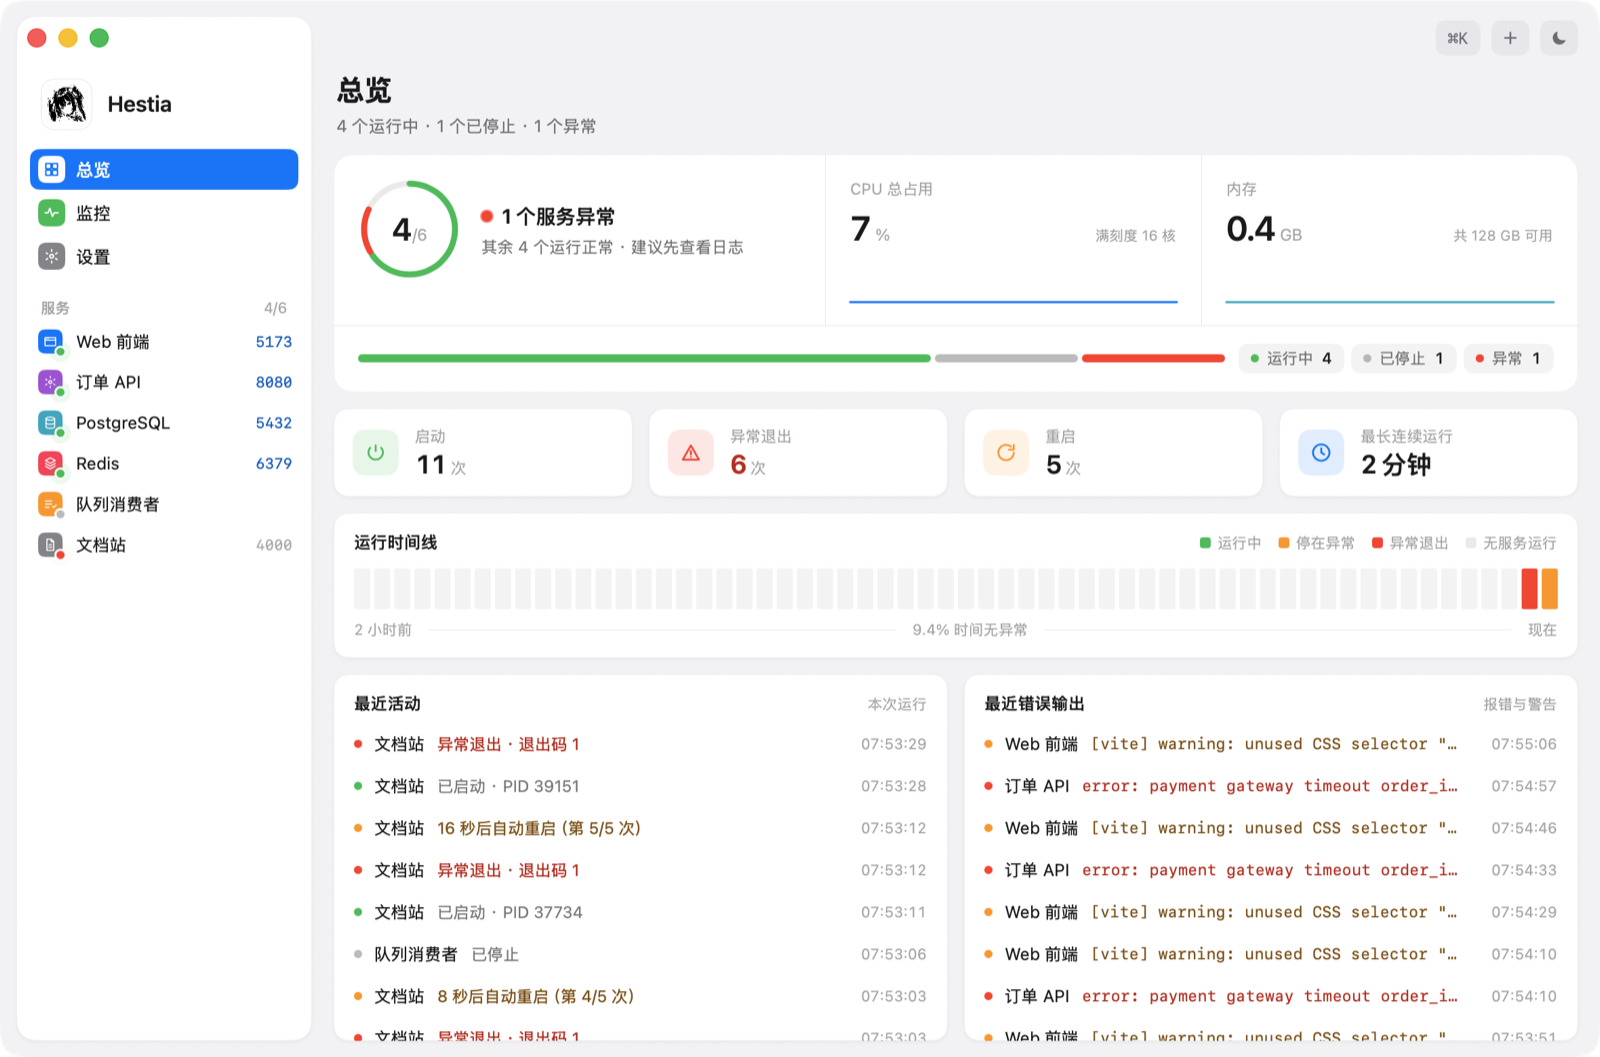
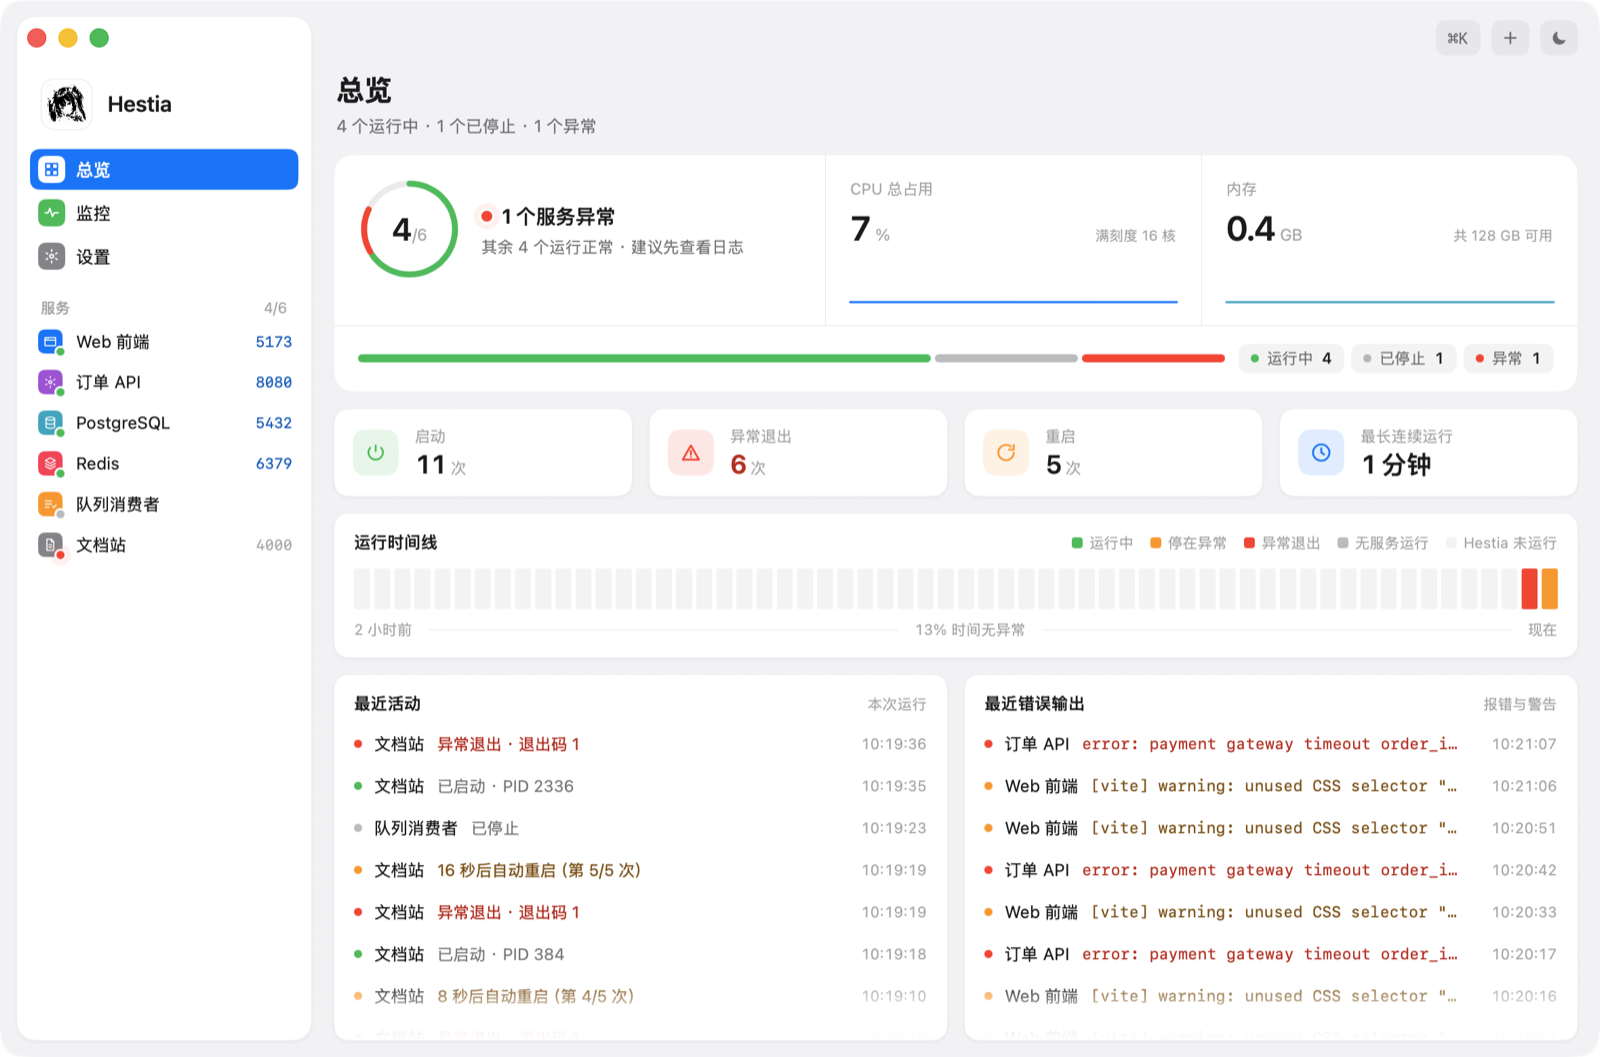
feat: 隐藏滚动条并加边缘渐隐，统一悬停手势，版本号升至 0.2.3
- 菜单栏面板、侧边栏、总览列表卡片，以及设置、监控、详情页的整页滚动不再显示滚动条，
  还有未显示内容的一侧边缘渐隐
- 按钮、开关、按钮组悬停时显示手形，禁用时保持箭头；嵌套区域离开内层后回到外层的形态；
  侧边栏拖拽时显示抓握手势
- 侧边栏拖到第一行之前时显示插入线
- 运行时间线的「无服务运行」改为灰色，图例补充「Hestia 未运行」
- 设置页各卡片改为单列排列
- README 截图同步更新

diff --git a/mac/Sources/Design/Components.swift b/mac/Sources/Design/Components.swift
@@ -242,6 +242,64 @@ struct Card<Content: View>: View {
     }
 }
 
+// MARK: 滚动边缘
+
+extension View {
+    /// 加在不显示滚动条的 ScrollView 上：哪一侧还有没露出来的内容，哪一侧的边缘就渐隐
+    func edgeFade(_ length: CGFloat = 44) -> some View {
+        modifier(EdgeFade(length: length))
+    }
+}
+
+/// 依赖 macOS 15 的滚动几何回调，macOS 14 上不渐隐
+private struct EdgeFade: ViewModifier {
+    let length: CGFloat
+    @State private var hidden = Hidden()
+
+    struct Hidden: Equatable {
+        var above = false
+        var below = false
+    }
+
+    func body(content: Content) -> some View {
+        if #available(macOS 15, *) {
+            content
+                .onScrollGeometryChange(for: Hidden.self) { g in
+                    Hidden(
+                        above: g.visibleRect.minY > 0.5,
+                        below: g.visibleRect.maxY < g.contentSize.height - 0.5)
+                } action: { _, now in
+                    withAnimation(.easeOut(duration: 0.15)) { hidden = now }
+                }
+                .mask {
+                    VStack(spacing: 0) {
+                        edge(.top, faded: hidden.above)
+                        Color.black
+                        edge(.bottom, faded: hidden.below)
+                    }
+                }
+        } else {
+            content
+        }
+    }
+
+    /// 靠边的一半压到很淡，贴边那一行基本看不见，才看得出还有内容。不渐隐时这一段完全不透明
+    private func edge(_ side: VerticalEdge, faded: Bool) -> some View {
+        ZStack {
+            Color.black.opacity(faded ? 0 : 1)
+            LinearGradient(
+                stops: [
+                    .init(color: .clear, location: 0),
+                    .init(color: .black.opacity(0.2), location: 0.45),
+                    .init(color: .black, location: 1),
+                ],
+                startPoint: side == .top ? .top : .bottom,
+                endPoint: side == .top ? .bottom : .top)
+        }
+        .frame(height: length)
+    }
+}
+
 // MARK: 分段控件
 
 struct Segmented<Value: Hashable>: View {
@@ -276,6 +334,7 @@ struct Segmented<Value: Hashable>: View {
                                     .matchedGeometryEffect(id: "thumb", in: thumb)
                             }
                         }
+                        .pointerCursor(on ? nil : .pointingHand)
                 }
                 .buttonStyle(.plain)
             }
@@ -422,15 +481,17 @@ extension AnyTransition {
 
 // MARK: 按钮
 
-/// 按下时缩一下。`.plain` 样式本身不给任何提示；缩放比例与曲线取自设计稿
+/// 按下时缩一下，悬停时指针变手形。`.plain` 样式本身不给任何提示；缩放比例与曲线取自设计稿
 struct Press: ButtonStyle {
     var scale: CGFloat = 0.94
+    @Environment(\.isEnabled) private var enabled
 
     func makeBody(configuration: Configuration) -> some View {
         configuration.label
             .scaleEffect(configuration.isPressed ? scale : 1)
             .animation(
                 .timingCurve(0.32, 0.72, 0, 1, duration: 0.14), value: configuration.isPressed)
+            .pointerCursor(enabled ? .pointingHand : nil)
     }
 }
 
@@ -531,14 +592,19 @@ final class ChromeFaceView: NSView {
 
     override func mouseEntered(with event: NSEvent) {
         inside = true
-        NSCursor.pointingHand.set()
+        PointerCursor.enter(self, .pointingHand)
         paint()
     }
 
     override func mouseExited(with event: NSEvent) {
         inside = false
-        NSCursor.arrow.set()
+        PointerCursor.leave(self)
         paint()
+    }
+
+    override func viewDidMoveToWindow() {
+        super.viewDidMoveToWindow()
+        if window == nil { PointerCursor.leave(self) }
     }
 
     override func layout() {
@@ -743,6 +809,45 @@ extension View {
     ) -> some View {
         modifier(HoverHighlight(radius: radius, base: base, tint: tint, cursor: cursor))
     }
+
+    /// 只改指针形态，不画底色。传 nil 保持系统默认
+    func pointerCursor(_ cursor: NSCursor? = .pointingHand) -> some View {
+        background(HoverLayer(radius: 0, base: .clear, hover: .clear, cursor: cursor))
+    }
+}
+
+/// 指针形态的统一出口。
+///
+/// 悬停区域会嵌套（行里套按钮），离开内层时应回到外层的形态而不是箭头，因此记下所有悬停中的
+/// 区域，取最后进入的那个。拖拽期间用 `override` 整体改掉，悬停进出不再影响
+@MainActor
+enum PointerCursor {
+    private static var hovered: [(owner: ObjectIdentifier, cursor: NSCursor)] = []
+
+    static var override: NSCursor? {
+        didSet { apply() }
+    }
+
+    static func enter(_ owner: NSView, _ cursor: NSCursor) {
+        let id = ObjectIdentifier(owner)
+        if let i = hovered.firstIndex(where: { $0.owner == id }) {
+            hovered[i].cursor = cursor
+        } else {
+            hovered.append((id, cursor))
+        }
+        apply()
+    }
+
+    static func leave(_ owner: NSView) {
+        let id = ObjectIdentifier(owner)
+        guard let i = hovered.firstIndex(where: { $0.owner == id }) else { return }
+        hovered.remove(at: i)
+        apply()
+    }
+
+    private static func apply() {
+        (override ?? hovered.last?.cursor ?? .arrow).set()
+    }
 }
 
 private struct HoverLayer: NSViewRepresentable {
@@ -785,7 +890,10 @@ final class HoverView: NSView {
     func configure(radius: CGFloat, base: CGColor, hover: CGColor, cursor: NSCursor?) {
         self.base = base
         tint = hover
-        self.cursor = cursor
+        if cursor !== self.cursor {
+            self.cursor = cursor
+            if inside { point() }
+        }
         plate.cornerRadius = radius
         paint(animated: false)
     }
@@ -799,11 +907,24 @@ final class HoverView: NSView {
         CATransaction.commit()
     }
 
+    override func viewDidMoveToWindow() {
+        super.viewDidMoveToWindow()
+        if window == nil { PointerCursor.leave(self) }
+    }
+
     private func set(_ now: Bool) {
         guard now != inside else { return }
         inside = now
-        if let cursor { (now ? cursor : NSCursor.arrow).set() }
+        point()
         paint(animated: true)
+    }
+
+    private func point() {
+        if inside, let cursor {
+            PointerCursor.enter(self, cursor)
+        } else {
+            PointerCursor.leave(self)
+        }
     }
 
     private func paint(animated: Bool) {

diff --git a/mac/Sources/Screens/Settings.swift b/mac/Sources/Screens/Settings.swift
@@ -10,22 +10,17 @@ struct Settings: View {
             PageTitle(text: "设置")
 
             ScrollView {
-                VStack(alignment: .leading, spacing: 0) {
+                VStack(alignment: .leading, spacing: 12) {
                     toggles
-                    // 左列日志与更新叠放，与右列快捷键等高
-                    HStack(alignment: .top, spacing: 12) {
-                        VStack(spacing: 12) {
-                            logs
-                            update
-                        }
-                        shortcuts
-                    }
-                    .fixedSize(horizontal: false, vertical: true)
-                    .padding(.top, 22)
+                    logs
+                    update
+                    shortcuts
                 }
                 .padding(.horizontal, Chrome.gutter)
                 .padding(.bottom, 28)
             }
+            .scrollIndicators(.never)
+            .edgeFade()
         }
     }
 
@@ -142,7 +137,7 @@ struct Settings: View {
             }
             .padding(.horizontal, 15)
             .padding(.vertical, 14)
-            .frame(maxWidth: .infinity, maxHeight: .infinity, alignment: .topLeading)
+            .frame(maxWidth: .infinity, alignment: .topLeading)
         }
     }
 
@@ -180,9 +175,6 @@ struct Settings: View {
                         .transition(.opacity)
                 }
 
-                // 卡片被拉高时按钮行贴底
-                Spacer(minLength: 13)
-
                 HStack(spacing: 8) {
                     Text(v.foot)
                         .font(.system(size: 11.5))
@@ -201,10 +193,11 @@ struct Settings: View {
                     .disabled(v.busy)
                     .opacity(v.busy ? 0.6 : 1)
                 }
+                .padding(.top, 13)
             }
             .padding(.horizontal, 15)
             .padding(.vertical, 14)
-            .frame(maxWidth: .infinity, maxHeight: .infinity, alignment: .topLeading)
+            .frame(maxWidth: .infinity, alignment: .topLeading)
         }
     }
 

diff --git a/mac/Sources/Screens/Overview.swift b/mac/Sources/Screens/Overview.swift
@@ -15,6 +15,8 @@ struct Overview: View {
                         .padding(.horizontal, Chrome.gutter)
                         .padding(.bottom, 28)
                 }
+                .scrollIndicators(.never)
+                .edgeFade()
             } else {
                 // 整页不滚动，最近活动与报错两张卡占满剩余高度，各自在卡内滚动。
                 // 窗口最矮 680pt 时两张卡仍能放下标题和一两行
@@ -386,6 +388,7 @@ private struct Timeline: View {
                     legend(.degraded, "停在异常")
                     legend(.down, "异常退出")
                     legend(.idle, "无服务运行")
+                    legend(.none, "Hestia 未运行")
                 }
                 // 一个 Canvas 画全部格子，每拍刷新时不必逐个布局 60 个视图
                 Canvas { ctx, size in
@@ -449,7 +452,8 @@ private struct Timeline: View {
     private func color(_ k: Kind) -> Color {
         switch k {
         case .none: theme.fill
-        case .idle: theme.fill2
+        // 与「已停止」同色，和没有数据的浅底色拉开
+        case .idle: theme.dim
         case .up: theme.green
         case .degraded: theme.orange
         case .down: theme.red
@@ -578,6 +582,8 @@ private struct FeedCard: View {
                         .padding(.top, 8)
                         .padding(.bottom, 10)
                     }
+                    .scrollIndicators(.never)
+                    .edgeFade()
                 }
             }
             .frame(maxWidth: .infinity, maxHeight: .infinity, alignment: .topLeading)

diff --git a/mac/Sources/Sidebar.swift b/mac/Sources/Sidebar.swift
@@ -147,6 +147,8 @@ private struct ServiceList: View {
             .padding(.horizontal, 6)
             .padding(.bottom, 10)
         }
+        .scrollIndicators(.never)
+        .edgeFade()
     }
 
     /// 拖完松手时按钮也会触发，这里拦掉
@@ -167,6 +169,7 @@ private struct ServiceList: View {
                     drag.id = svc.id
                     drag.origin = index
                     drag.dragged = true
+                    PointerCursor.override = .closedHand
                 }
                 let slot = min(
                     max(index + Int((g.translation.height / pitch).rounded()), 0),
@@ -180,6 +183,7 @@ private struct ServiceList: View {
                     store.reorder(ids)
                 }
                 drag.clear()
+                PointerCursor.override = nil
                 // 按钮的动作可能晚于这里，等下一轮再放开
                 DispatchQueue.main.async { drag.dragged = false }
             }
@@ -196,7 +200,8 @@ private struct DropLine: View {
             Capsule()
                 .fill(Color.accentColor)
                 .frame(height: 2)
-                .offset(y: CGFloat(slot > from ? slot + 1 : slot) * pitch - 3)
+                // 线画在两行之间的行距里；第一行上方没有行距，贴着顶边画，否则会被滚动区域裁掉
+                .offset(y: max(0, CGFloat(slot > from ? slot + 1 : slot) * pitch - 3))
         }
     }
 }

diff --git a/mac/Sources/Screens/Monitor.swift b/mac/Sources/Screens/Monitor.swift
@@ -41,6 +41,8 @@ struct Monitor: View {
                 .padding(.horizontal, Chrome.gutter)
                 .padding(.bottom, 28)
             }
+            .scrollIndicators(.never)
+            .edgeFade()
         }
     }
 
@@ -110,7 +112,7 @@ struct Monitor: View {
                         }
                         (r.isSelf ? theme.fill : Color.clear)
                             .frame(height: Self.rowHeight)
-                            .hoverHighlight()
+                            .hoverHighlight(cursor: r.isSelf ? nil : .pointingHand)
                     }
                 }
 
@@ -211,6 +213,7 @@ struct Monitor: View {
                         .padding(.horizontal, 14)
                         .padding(.vertical, 11)
                         .contentShape(.rect)
+                        .pointerCursor(a.id == nil ? nil : .pointingHand)
                         .onTapGesture { if let id = a.id { store.open(id) } }
                     }
                 }

diff --git a/mac/Sources/Screens/Detail.swift b/mac/Sources/Screens/Detail.swift
@@ -29,6 +29,8 @@ struct Detail: View {
                         .padding(.horizontal, Chrome.gutter)
                         .padding(.bottom, 28)
                     }
+                    .scrollIndicators(.never)
+                    .edgeFade()
                     LogDrawer(
                         service: svc,
                         isOpen: Binding(get: { store.drawerOpen }, set: { store.drawerOpen = $0 }))

diff --git a/mac/Sources/Screens/CommandPalette.swift b/mac/Sources/Screens/CommandPalette.swift
@@ -137,6 +137,7 @@ struct CommandPalette: View {
             .padding(.vertical, 8)
             .background(active ? theme.blue : .clear, in: .rect(cornerRadius: 8))
             .contentShape(.rect)
+            .pointerCursor()
         }
         .buttonStyle(.plain)
         .onHover { if $0, let i = items.firstIndex(where: { $0.id == item.id }) { cursor = i } }

diff --git a/mac/Sources/MenuBar/MenuBarPanel.swift b/mac/Sources/MenuBar/MenuBarPanel.swift
@@ -26,6 +26,9 @@ struct MenuBarPanel: View {
                         }
                     }
                 }
+                // 接了鼠标时 .hidden 仍会显示滚动条，.never 才彻底去掉
+                .scrollIndicators(.never)
+                .edgeFade()
                 .frame(maxHeight: 242)
             }
 
